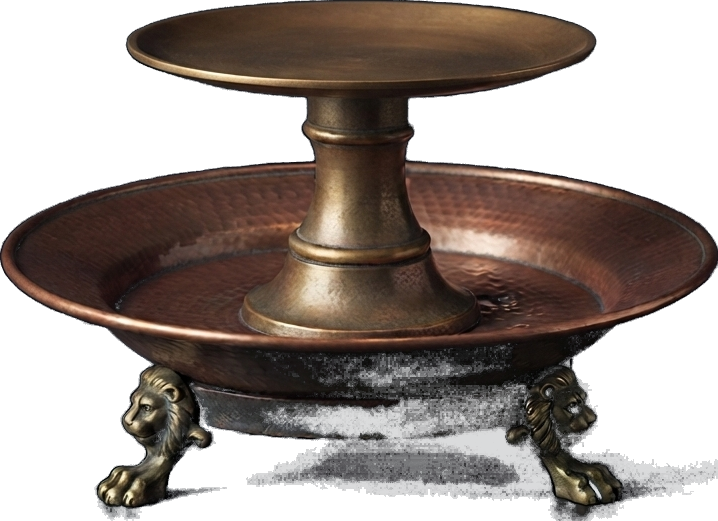
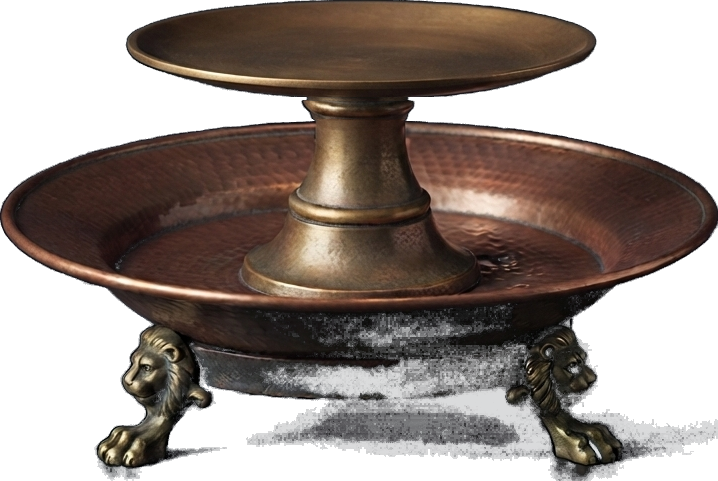
Candle: shorten the pillar stand's neck so the stand can be drawn bigger
The stand's WIDTH caps how large it can be drawn; its HEIGHT is what pushes
the candle's flame out of the top of the frame. Taking 40px out of the plain
shaft above and below the collar ring makes it shorter without making it
narrower, so it can be drawn at 0.495 instead of 0.45.

The ring itself is left alone — it is the only detail on the neck, and
squeezing it would flatten it. The shaft either side is featureless and
evenly shaded, so compressing that is invisible.

Plate rim grows from 105.5 to 116.1, which is enough to hold the 6-day
candle (112.6). Cap raised from 5 to 6. Seven needs 121.3 and still will
not fit without a taller frame or a narrower pillar.

Claude-Session: https://claude.ai/code/session_01Q1zdGyXg5GFAuw9Sy2hsyq

diff --git a/candler/index.html b/candler/index.html
@@ -526,7 +526,7 @@
            stand appears here. -->
       <g id="pillarStand" style="display:none">
         <image href="candlerstand-pillar.png"
-               x="27.8" y="425.5" width="323.1" height="234.5"/>
+               x="12.3" y="421.9" width="355.4" height="238.1"/>
       </g>
 
       <!-- glow -->
@@ -600,7 +600,7 @@
       <div class="ctrl">
         <input id="pillarCheck" type="checkbox" aria-label="pillar candle mode">
         <span class="icon">🗓</span>
-        <input id="pillarSlider" type="range" min="2" max="5" step="1" value="4" aria-label="pillar burn length in days">
+        <input id="pillarSlider" type="range" min="2" max="6" step="1" value="4" aria-label="pillar burn length in days">
       </div>
     </div>
   </div>
@@ -695,16 +695,21 @@ const CUP_TRAY_SAFE_HALF_WIDTH = 90;
 // pillar candle's own insertion point already sits close to this edge, so
 // without a floor here the "flat lying" pin overhangs the plate's actual
 // (elliptical, tapering) visible surface and reads as dangling off it.
-const PILLAR_PLATE_SAFE_HALF_WIDTH = 84;
+const PILLAR_PLATE_SAFE_HALF_WIDTH = 93;
 // the pillar plate's own front-rim curve, measured off candlerstand-pillar.png
-// itself rather than guessed: in that cut-out the plate's widest row sits 42px
+// itself rather than guessed: in that picture the plate's widest row sits 42px
 // down from the top with its rim spanning 234.5px either side of centre, and
-// the picture is drawn at 0.45 scale from x=27.8, y=425.5 — which puts the
-// rim ellipse exactly here. The pillar candle's base follows this arc (see
-// waxBottomPath()) instead of a flat line, so it reads as resting ON the
-// curved plate rather than cutting straight through it. Re-measure these if
-// the stand picture or its placement ever changes.
-const PLATE_RIM_CX = 190, PLATE_RIM_CY = 444.4, PLATE_RIM_RX = 105.5, PLATE_RIM_RY = 18.9;
+// it is drawn at 0.495 scale from x=12.3, y=421.9 — which puts the rim ellipse
+// exactly here. The pillar candle's base follows this arc (see waxBottomPath())
+// instead of a flat line, so it reads as resting ON the curved plate rather
+// than cutting straight through it. Re-measure these if the stand picture or
+// its placement ever changes.
+//
+// That 0.495 is as large as the stand can be drawn: bigger, and the candle
+// standing on the plate rises far enough that its flame leaves the top of the
+// frame. Shortening the stand's neck is what bought the extra size — see the
+// note on PILLAR_MAX_DAYS.
+const PLATE_RIM_CX = 190, PLATE_RIM_CY = 442.7, PLATE_RIM_RX = 116.1, PLATE_RIM_RY = 20.8;
 // the candle sits toward the back of the plate rather than right at its
 // front edge, so a visible strip of plate shows in front of it — same
 // curve as the plate's true rim, just lifted.
@@ -732,13 +737,21 @@ const MAX_BURN_MINUTES = 1440;  // largest candle, full burn-down (24 hours)
 // candle wider than it is tall, a squat drum rather than a pillar.
 const PILLAR_HEIGHT = 380;
 const PILLAR_MIN_DAYS = 2;
-// capped at 5 because that is the widest candle the real plate can actually
-// hold: the burn-time-from-wax-volume maths gives a 6-day pillar a half-width
-// of 112.6 and a 7-day one 121.3, against a plate whose rim measures 105.5 —
-// so those two hung over the edge resting on nothing. Raising this again means
-// solving that first (a narrower, taller pillar, or a wider frame), not just
-// changing the number — the slider's own max attribute has to match too.
-const PILLAR_MAX_DAYS = 5;
+// capped at the widest candle the real plate can actually hold. The
+// burn-time-from-wax-volume maths gives a 6-day pillar a half-width of 112.6
+// and a 7-day one 121.3; the plate's rim measures 116.1, so 6 sits on it and 7
+// would hang over the edge resting on nothing.
+//
+// 116.1 is itself the most plate obtainable here, and it took shortening the
+// stand's neck to get it: the stand's width is what limits how large it can be
+// drawn, but its HEIGHT is what pushes the candle (and its flame) out of the
+// top of the frame. Squeezing 40px out of the plain shaft above and below the
+// collar ring — the ring itself untouched, since it is the only detail there —
+// made the stand shorter without making it narrower, so it could be drawn
+// bigger and the plate grew from 105.5 to 116.1. That bought exactly one more
+// day. Reaching 7 needs a taller frame or a narrower pillar, not more neck.
+// Changing this number means changing the slider's max attribute to match.
+const PILLAR_MAX_DAYS = 6;
 // once this fraction of the pillar's total burn has elapsed, the flame
 // has sunk below the rim and the hollow-well rendering takes over
 const HOLLOW_START_FRACTION = 0.14; // roughly "day 1" of a 7-day burn
